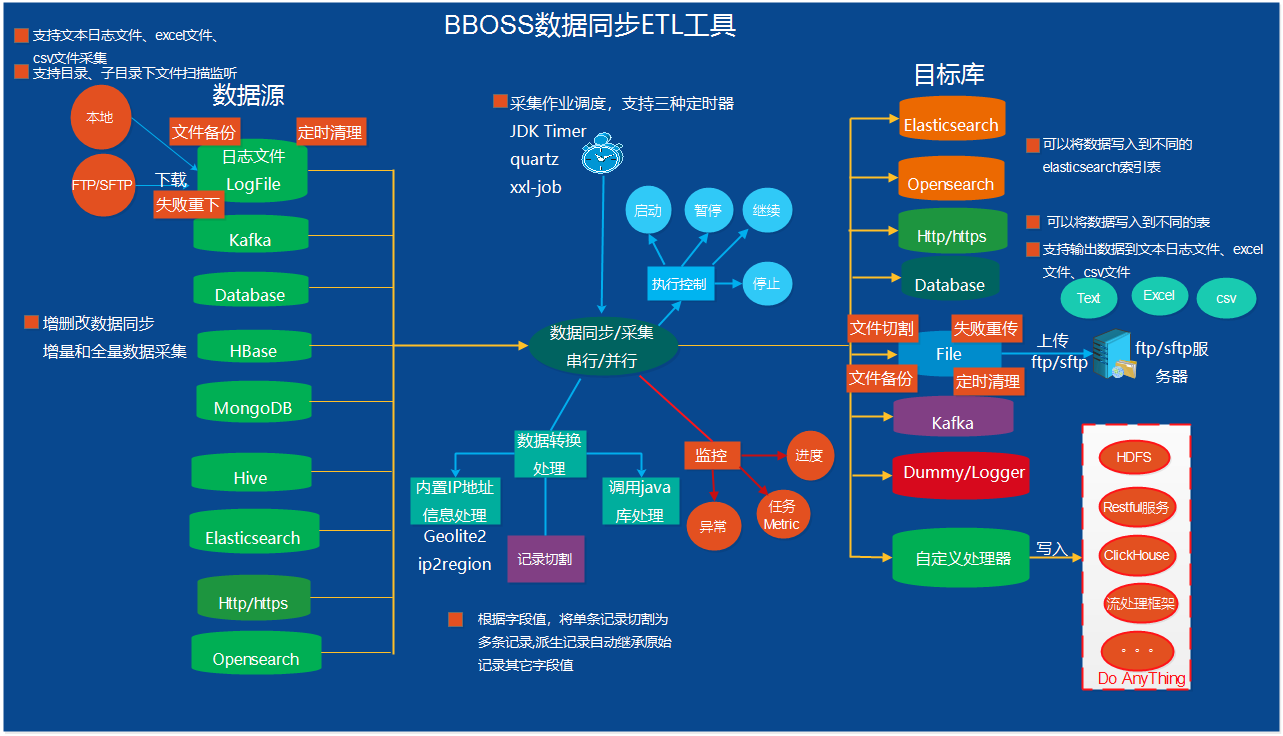
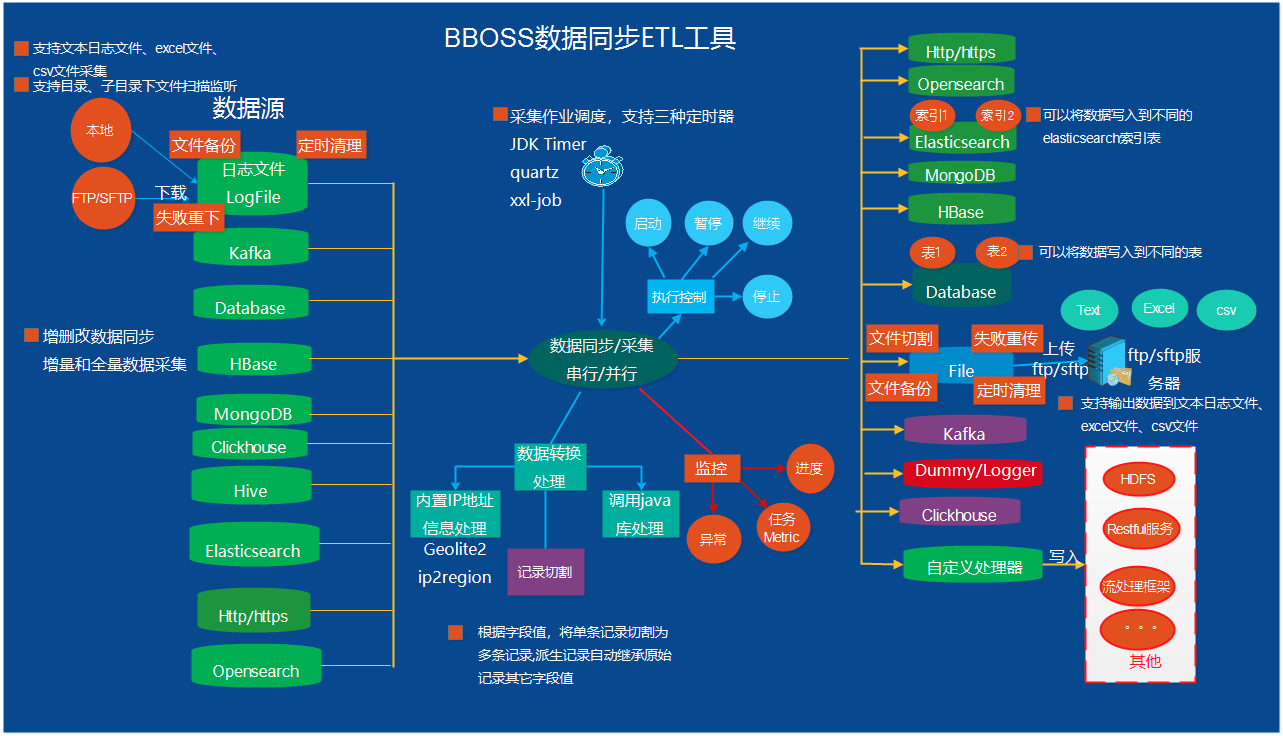
1.优化数据源销毁机制，添加是否允许jvm退出时自动销毁db数据源，默认false，不允许，true 允许
2.改进hbase输出插件

diff --git a/bboss-elasticsearch-spring-boot-starter/src/main/java/org/frameworkset/elasticsearch/boot/BBossESStarter.java b/bboss-elasticsearch-spring-boot-starter/src/main/java/org/frameworkset/elasticsearch/boot/BBossESStarter.java
@@ -16,7 +16,6 @@ package org.frameworkset.elasticsearch.boot;/*
 
 import com.frameworkset.common.poolman.util.DBConf;
 import com.frameworkset.common.poolman.util.SQLManager;
-import com.frameworkset.common.poolman.util.SQLUtil;
 import org.frameworkset.elasticsearch.ElasticSearchHelper;
 import org.frameworkset.elasticsearch.client.ClientInterface;
 import org.frameworkset.elasticsearch.template.BaseTemplateContainerImpl;
@@ -154,25 +153,14 @@ public class BBossESStarter  extends BaseESProperties{
 		temConf.setDbAdaptor(db.getDbAdaptor());
 		temConf.setDbtype(db.getDbtype());
 		boolean ff = db.getColumnLableUpperCase() == null ? true:db.getColumnLableUpperCase().equals("true");
+
+
 		temConf.setColumnLableUpperCase(ff);
+
+		ff = db.getEnableShutdownHook() == null ? true:db.getEnableShutdownHook().equals("true");
+		temConf.setEnableShutdownHook(ff);
 		SQLManager.startPool(temConf);
-		SQLUtil.startPool(db.getName(),//数据源名称
-				db.getDriver(),//jdbc驱动
-				db.getUrl(),//mysql链接串
-				db.getUser(), db.getPassword(),//数据库账号和口令
-				null,//"false",
-				null,// "READ_UNCOMMITTED",
-				db.getValidateSQL(),//数据库连接校验sql
-				db.getName()+"_jndi",
-				db.getInitSize() != null?Integer.parseInt(db.getInitSize()):10,
-				db.getMinIdleSize() != null?Integer.parseInt(db.getMinIdleSize()):10,
-				db.getMaxSize() != null?Integer.parseInt(db.getMaxSize()):50,
-				db.getUsePool() != null?Boolean.parseBoolean(db.getUsePool()):true,
-				false,
-				null, db.getShowSql()!= null?Boolean.parseBoolean(db.getShowSql()):true, false,
-				db.getJdbcFetchSize() != null?Integer.parseInt(db.getJdbcFetchSize()):0,
-				db.getDbtype(),db.getDbAdaptor()
-		);
+
 	}
 
 	private ClientInterface restClient;

diff --git a/bboss-elasticsearch-spring-boot-starter/src/main/java/org/frameworkset/elasticsearch/boot/BaseESProperties.java b/bboss-elasticsearch-spring-boot-starter/src/main/java/org/frameworkset/elasticsearch/boot/BaseESProperties.java
@@ -183,6 +183,16 @@ public abstract class BaseESProperties {
 		private String dbAdaptor;
 		private String jdbcFetchSize;
 		private String datasources;
+		private String enableShutdownHook;
+		public String getEnableShutdownHook() {
+			return enableShutdownHook;
+		}
+
+		public void setEnableShutdownHook(String enableShutdownHook) {
+			this.enableShutdownHook = enableShutdownHook;
+		}
+
+
 		public String getColumnLableUpperCase() {
 			return columnLableUpperCase;
 		}

diff --git a/docs/changelog.md b/docs/changelog.md
@@ -30,7 +30,7 @@ https://esdoc.bbossgroups.com/#/development
         <dependency>
             <groupId>com.bbossgroups.plugins</groupId>
             <artifactId>bboss-elasticsearch-rest-jdbc</artifactId>
-            <version>6.7.8</version>
+            <version>6.7.9</version>
         </dependency>
 ```
 
@@ -40,10 +40,17 @@ https://esdoc.bbossgroups.com/#/development
         <dependency>
             <groupId>com.bbossgroups.plugins</groupId>
             <artifactId>bboss-elasticsearch-spring-boot-starter</artifactId>
-            <version>6.7.8</version>
+            <version>6.7.9</version>
         </dependency>
 ```
+# v6.7.9 功能改进
 
+1.增加hbase和MongoDB输出插件，使用案例：
+[Elasticsearch-HBase同步案例](https://gitee.com/bboss/hbase-elasticsearch/blob/master/src/main/java/org/frameworkset/elasticsearch/imp/ES2HBaseDemo.java)
+[Database-HBase同步案例](https://gitee.com/bboss/hbase-elasticsearch/blob/master/src/main/java/org/frameworkset/elasticsearch/imp/DB2HbaseDemo.java)
+[Elasticsearch-MongoDB同步案例](https://gitee.com/bboss/mongodb-elasticsearch/blob/master/src/main/java/org/frameworkset/elasticsearch/imp/ES2MongodbDemo.java)
+[Database-MongoDB同步案例](https://gitee.com/bboss/mongodb-elasticsearch/blob/master/src/main/java/org/frameworkset/elasticsearch/imp/DB2MongodbDemo.java)
+2.数据库数据源增加enableShutdownHook属性，控制是否在jvm退出时自动关闭数据源，默认为false 不关闭 true关闭
 
 # v6.7.8 功能改进
 
